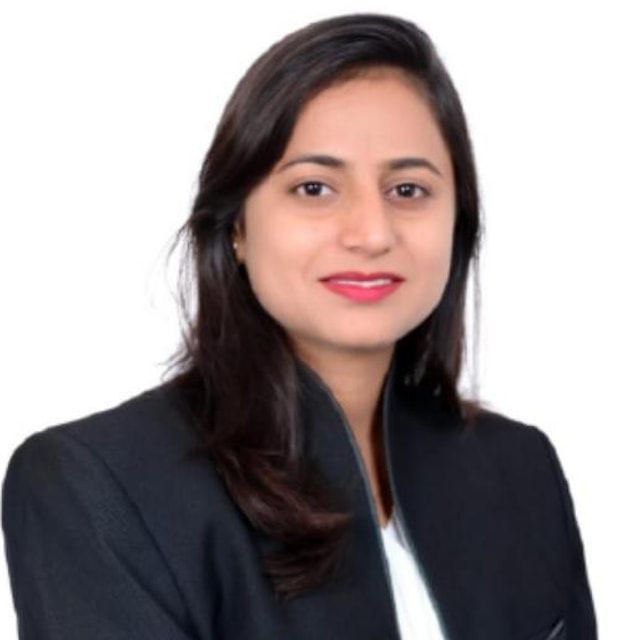
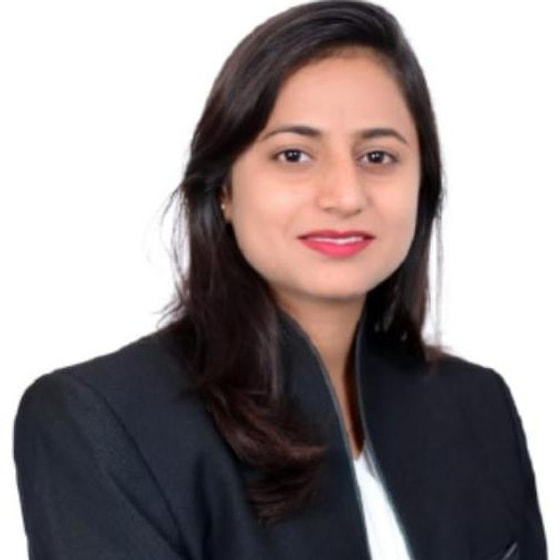
fix(team): stop cropping the portraits — square frame, square source
You were right that the photos were wrong, and it was not the files. The frame
was 4:3 with the crop biased up to 28%, which throws away a quarter of the
height. That is fine for a photograph with headroom.

These have none. Measured on the deck's own team slide, each portrait is
cropped to within 0-5px of the hairline — Gajanan 4px, Anjali 5px, Ankita 0.
So the frame was taking 45 source rows off the top and cutting straight into
two of the three heads, and leaving dead white either side of a portrait
subject stretched across a landscape box.

THE FRAME IS NOW 1:1 AND SO IS THE SOURCE, so the browser crops nothing and
each portrait shows as the deck composed it.

Re-cut from the slide against measured boundaries rather than by eye: the top
of each is where the studio backdrop actually begins, the bottom is above the
name band, and each is squared by TRIMMING WIDTH around the person's measured
centre — 31px, 11px and 86px. An earlier attempt squared them by padding the
top with a sampled backdrop colour instead; the sample caught hair and clothing
and put a visible grey band across two of the three. Nothing is padded now, so
no pixel on these cards is invented.

The card grows 380 to 424 because a square photo is taller than a 4:3 one, so
the row is narrower to compensate — 50rem against 54.5rem. Net effect against
where this started: 397x484 with the photo upscaled 1.5x, now 251x424 with it
downsampled 1.13x.
[…]

diff --git a/frontend/src/styles/about.css b/frontend/src/styles/about.css
@@ -86,10 +86,10 @@
 .vp-team{
   display:grid;gap:clamp(1rem,2vw,1.5rem);
   grid-template-columns:1fr;
-  max-width:22rem;
+  max-width:20rem;
 }
-@media (min-width:640px){ .vp-team{grid-template-columns:repeat(2,1fr);max-width:38rem;} }
-@media (min-width:1000px){ .vp-team{grid-template-columns:repeat(3,1fr);max-width:54.5rem;} }
+@media (min-width:640px){ .vp-team{grid-template-columns:repeat(2,1fr);max-width:34rem;} }
+@media (min-width:1000px){ .vp-team{grid-template-columns:repeat(3,1fr);max-width:50rem;} }
 
 .vp-tcard{
   position:relative;display:flex;flex-direction:column;
@@ -115,22 +115,24 @@
   box-shadow:0 26px 54px -28px rgb(0 0 0 / .7);
 }
 
-/* 4:3, not the square the portraits are supplied at. A square frame across a
-   3-up grid made a 397x587 card — more room than a name, a title and one line
-   of text can fill.
-   The crop is biased UP (28%, not the 50% centre) because these are tight
-   head-and-shoulders shots: centred, 4:3 would take equally from the top of the
-   head and the chest, and the head is the half that matters. */
+/* 1:1, MATCHING THE SOURCE, so the browser crops nothing.
+   This frame was 4:3 with the crop biased up to 28%, which cost a quarter of
+   the height. That is fine for a photograph with headroom and fatal for these:
+   measured on the deck's own team slide, each portrait is cropped to within
+   0-5px of the hairline, so removing any height at all cuts into the head —
+   which is exactly what it was doing to two of the three.
+   A square frame shows each portrait as composed. The cards get taller, so the
+   row is narrower to compensate. */
 .vp-tcard__photo{
-  position:relative;aspect-ratio:4 / 3;overflow:hidden;
+  position:relative;aspect-ratio:1 / 1;overflow:hidden;
   background:var(--vp-bg-sunken);
-  /* The portraits are studio cut-outs on white, and the card is white, so
+  /* The portraits are studio shots on near-white, and the card is white, so
      without this the top of the frame dissolves into the card and the photo
      reads as floating rather than seated in it. */
   border-bottom:1px solid var(--vp-border-soft);
 }
 .vp-tcard__photo img{
-  width:100%;height:100%;object-fit:cover;object-position:50% 28%;display:block;
+  width:100%;height:100%;object-fit:cover;object-position:50% 50%;display:block;
   transition:transform 900ms var(--vp-ease);
 }
 .vp-tcard:hover .vp-tcard__photo img,

diff --git a/frontend/src/pages/Team.jsx b/frontend/src/pages/Team.jsx
@@ -95,8 +95,8 @@ export default function Team() {
                   <img
                     src={p.photo}
                     alt={`${p.name}, ${p.role} of Vedanjay Power`}
-                    sizes="(min-width: 1000px) 270px, (min-width: 640px) 45vw, 90vw"
-                    width="540" height="540" loading="lazy" decoding="async"
+                    sizes="(min-width: 1000px) 250px, (min-width: 640px) 42vw, 88vw"
+                    width="560" height="560" loading="lazy" decoding="async"
                   />
                   <p className="vp-tcard__role">{p.role}</p>
                 </div>
